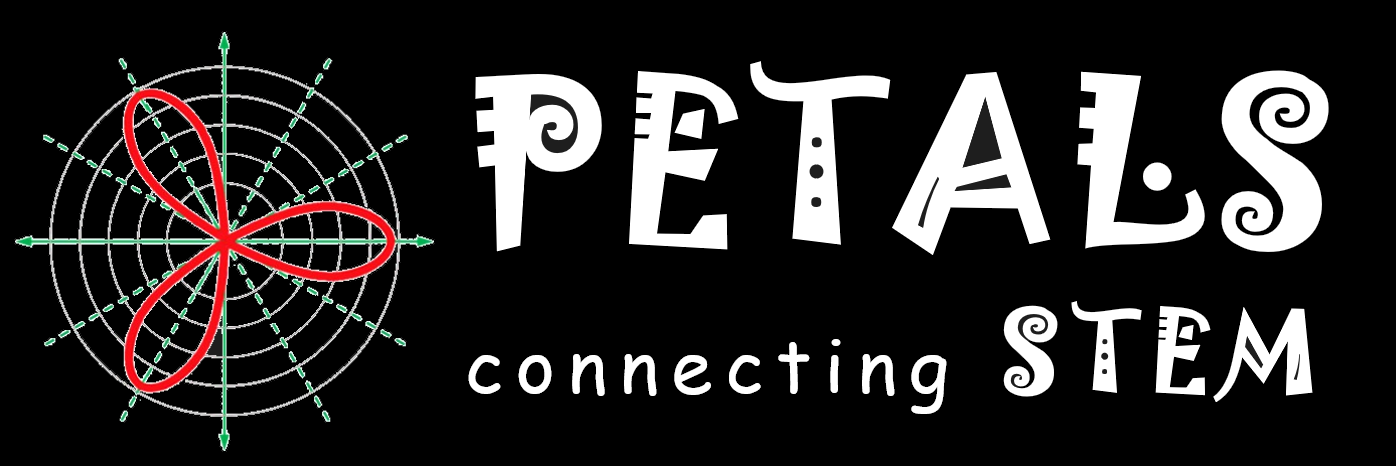
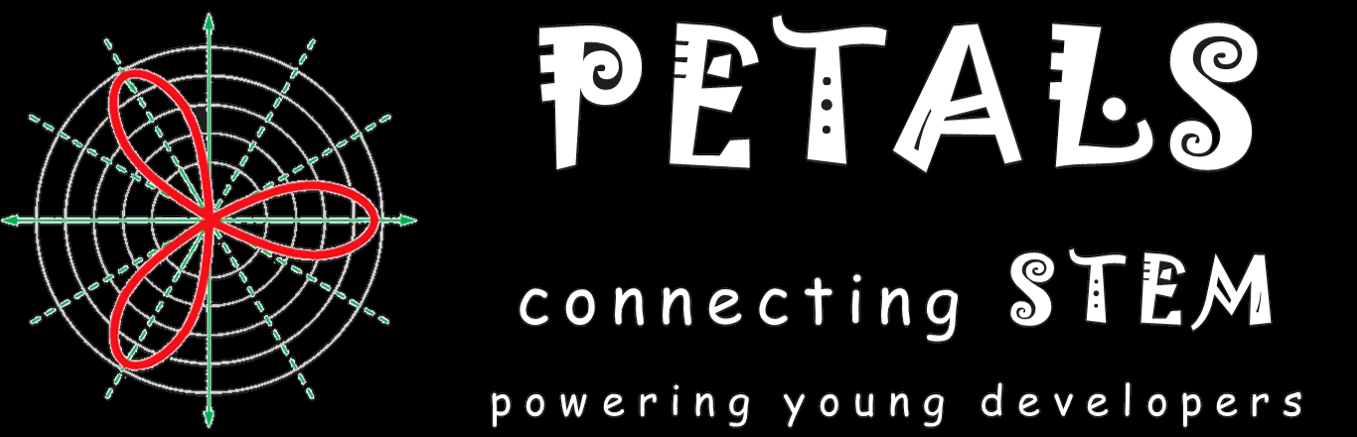
wallpaper

diff --git a/about-us.html b/about-us.html
@@ -11,7 +11,6 @@
 <body>
 <header>
 <img class="header_image" src="./images/petals_header.png">
-<h1 class="tagline">powering young developers</h1>
 
 <nav>
 <ul>

diff --git a/challenge.html b/challenge.html
@@ -11,7 +11,6 @@
 <body>
 <header>
 <img class="header_image" src="./images/petals_header.png">
-<h1 class="tagline">powering young developers</h1>
 
 <nav>
 <ul>

diff --git a/contact-us.html b/contact-us.html
@@ -11,7 +11,6 @@
 <body>
 <header>
 <img class="header_image" src="./images/petals_header.png">
-<h1 class="tagline">powering young developers</h1>
 
 <nav>
 <ul>

diff --git a/index.html b/index.html
@@ -11,7 +11,6 @@
 <body>
 <header>
 <img class="header_image" src="./images/petals_header.png">
-<h1 class="tagline">powering young developers</h1>
 
 <nav>
 <ul>

diff --git a/styles/styles.css b/styles/styles.css
@@ -70,7 +70,8 @@ text-align: center;
 }
 
 .tagline {
-padding-top: 5px;
+padding-top: 0px;
+color: white;
 }
 
 
